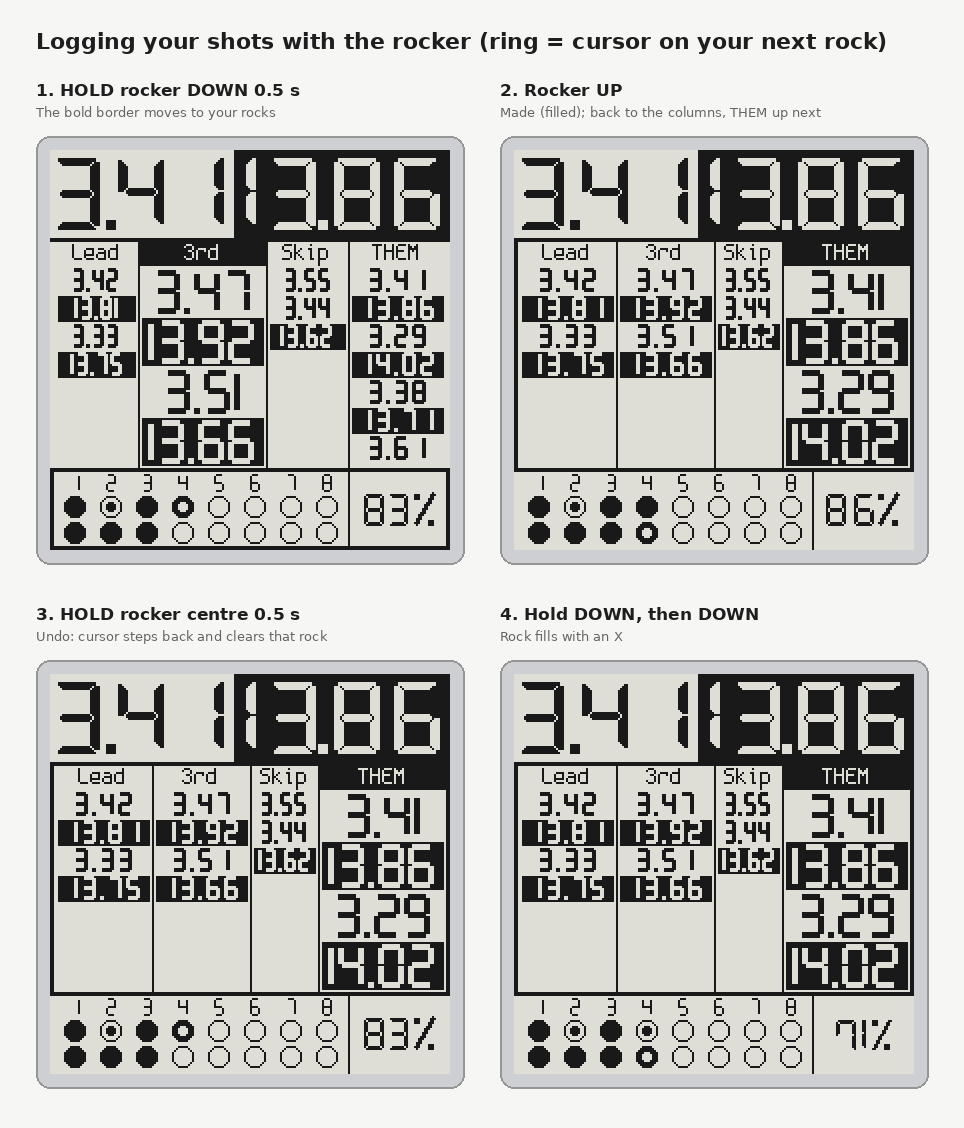
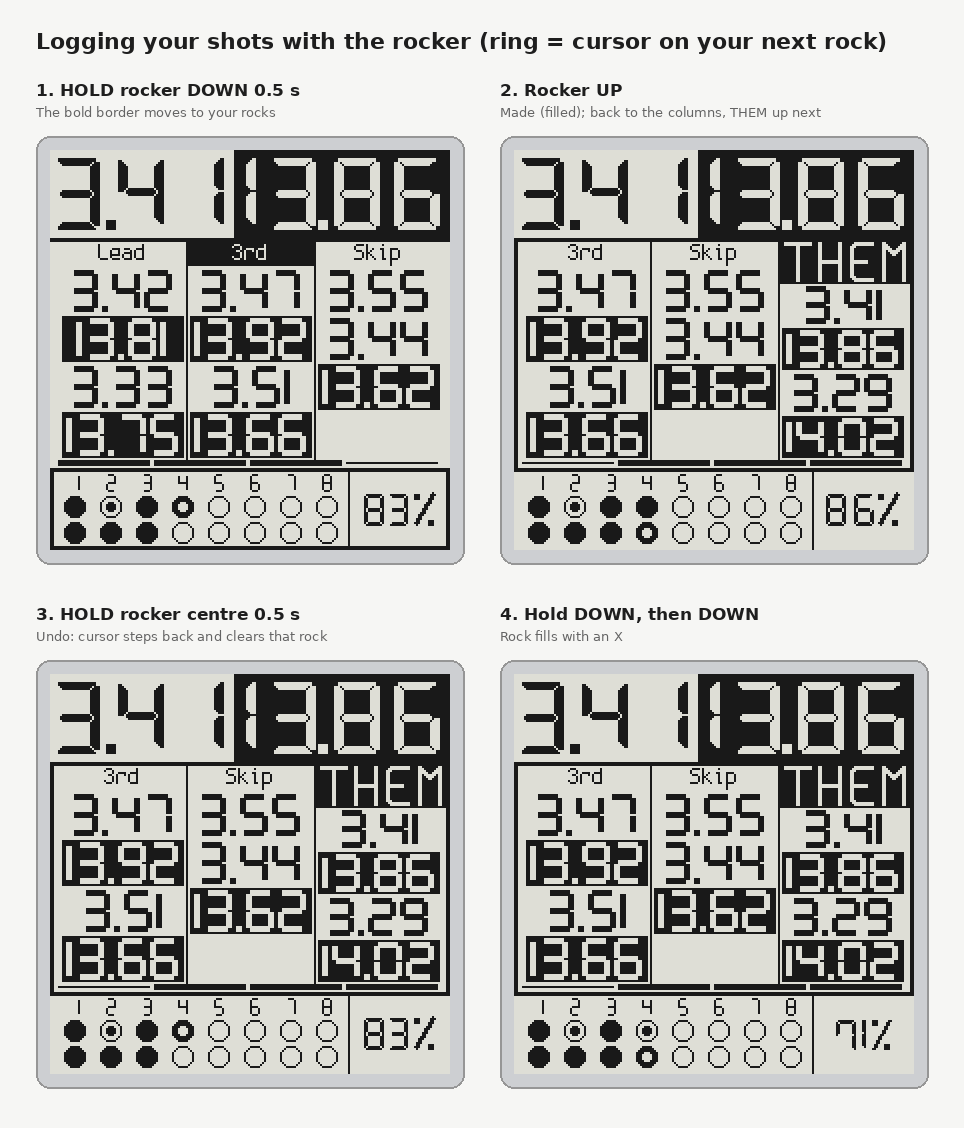
Resolve the review findings on the new navigation and tutorials
- Basic tutorial: a top or side press dismisses it and also clicks, as with
  the position card, so the first stone's start isn't lost; only rocker
  presses are swallowed, and the auto-expiry no longer swallows anything.
- Leaving scroll mode always re-aims the cursor (a position change while
  scrolling restarted the order and left it on a stale column).
- The display keeps the strongest refresh asked for (Partial < FastScreen <
  Full), so a pending ghost-clean can't be downgraded.
- The first ghost-clearing refresh comes after the first stone, as switching
  on now uses fast updates that can leave the off page or menu ghosting.
- Position card: the rocker centre dismisses it only once the double-click
  window has passed, so changing position no longer blinks it off and on.
- History scroll: every column steps back by the same number of splits; a
  column that runs out goes blank instead of holding its oldest four.
- Stale help-page references; game_sim models the fast switch-on.

Claude-Session: https://claude.ai/code/session_01YA9zoncxe9XeMCwR12hQbC

diff --git a/simulator/viewer.html b/simulator/viewer.html
@@ -197,7 +197,7 @@ async function restartIn(mode) {
     if (poweredOn) {
       status.textContent = "switching off…";
       press("side"); await sleep(3400); release("side");
-      for (let i = 0; i < 40 && poweredOn; i++) await sleep(250);  // until the help page is up
+      for (let i = 0; i < 40 && poweredOn; i++) await sleep(250);  // until the off page is up
       await sleep(600);
     }
     status.textContent = `switching on (${mode})…`;

diff --git a/firmware/src/app.cpp b/firmware/src/app.cpp
@@ -209,6 +209,9 @@ constexpr int64_t kPageTipUs = 3 * kSec;
 int64_t singleClickAt = -1;     // the click to check, once the window has passed (-1: none)
 int64_t singleClickPress = -1;  // ... the press it was (a second press since: a double click)
 int64_t pageTipUntil = -1;
+// The position card and a press of the rocker centre: dismissed once the double-click window has
+// passed (a double click changes position and shows the card again: no blink in between).
+int64_t cardDismissAt = -1;
 bool offHint = false;            // "Keep holding to turn off": the side button held, not yet 3 s
 bool moveHint = false;           // "Keep holding to move time": rocker up (or down) held to move a time, till let go
 uint8_t stonesSinceClean = 0;
@@ -344,8 +347,13 @@ void newGame() {
     tipWaiting = mode == GameMode::Basic || rules().positions;
     basicIntroClearing = false;
     tipUntil = -1;
+    cardDismissAt = -1;
     stoneCount = 0;
     basicScroll = 0;
+    // Switching on draws with the fast waveform (no mode switch before the first click), which can
+    // leave the wake screen or menu ghosting: the first ghost-clearing refresh comes after the first
+    // stone, between stones, then every kStonesPerClean as usual.
+    stonesSinceClean = kStonesPerClean - 1;
     Serial.printf("game: new, %s mode\n", modeName(mode));
 }
 
@@ -485,8 +493,9 @@ void syncModel(board::Refresh refresh = board::Refresh::Partial) {
         m.warning = lowBattery;
         m.off = false;
         m.menu = false;
-        // Timing may update the queued frame before the display task takes it.
-        if (requestedRefresh != board::Refresh::Partial) m.refresh = requestedRefresh;
+        // Timing may update the queued frame before the display task takes it: keep the strongest
+        // refresh asked for (Partial < FastScreen < Full), so a pending ghost-clean isn't lost.
+        if (requestedRefresh > m.refresh) m.refresh = requestedRefresh;
         const Tip switchOn = mode == GameMode::Basic ? Tip::BasicIntro : Tip::SwitchOn;
         m.tip = offHint ? Tip::PowerOff : undoHint ? Tip::Undo : moveHint ? Tip::Move :
                 pageTipUntil >= 0 ? Tip::Page : tipWaiting || tipUntil >= 0 ? switchOn : Tip::None;
@@ -793,7 +802,7 @@ GameMode chooseMode() {
             m.tutorialMode = tutorialMode;
             m.tutorialPage = tutorialPage;
             m.off = false;
-            if (full) m.refresh = board::Refresh::FastScreen;
+            if (full && m.refresh < board::Refresh::FastScreen) m.refresh = board::Refresh::FastScreen;
         });
     };
     show(true);
@@ -1026,6 +1035,7 @@ void onRockerPress(ButtonState& s, int64_t t) {
             restartOrder();
             Serial.printf("position: you are %s\n", kPositionNames[myPosition]);
             tipWaiting = true;  // show the new position once the card is on screen
+            cardDismissAt = -1;  // (the first click's dismissal is off: the card stays up)
             tipUntil = -1;
         }
         syncModel();  // shows at once, even while a stone is timed
@@ -1146,10 +1156,11 @@ void releaseAction(uint8_t b) {
     else scrollBasic(b == board::kDown ? 1 : -1);  // basic: down = older stones, up = newer
 }
 
-void dismissBasicIntro() {
+// byPress: a rocker press dismissed it, so the rocker's presses are ignored until it's off the screen.
+void dismissBasicIntro(bool byPress) {
     tipWaiting = false;
     tipUntil = -1;
-    basicIntroClearing = true;
+    basicIntroClearing = byPress;
     syncModel();
 }
 
@@ -1167,18 +1178,25 @@ void onPress(uint8_t b, int64_t t) {
     if (b == board::kUp) moveSteps = 0;
     activity(t);
     if (mode == GameMode::Basic && (tipWaiting || tipUntil >= 0 || basicIntroClearing)) {
-        // The press only dismisses the tutorial: no click, hold or release action. Except that
-        // holding the side button still switches off: its hold is left to run, with no click of
-        // this press for the power-off hold to take back.
-        if (b == board::kSide) sideClick = Outcome();
-        else s.holdFired = true;
-        if (!basicIntroClearing) dismissBasicIntro();
-        return;
+        // Any press dismisses the tutorial. A timing press also clicks, as with the position card:
+        // the first stone's start isn't lost. A rocker press does nothing else (no hold or release
+        // action), nor do its presses while the tutorial is still clearing.
+        const bool timingPress = isTimingButton(b);
+        if (tipWaiting || tipUntil >= 0) dismissBasicIntro(!timingPress);
+        if (!timingPress) {
+            s.holdFired = true;
+            return;
+        }
     }
-    const bool dismissPosition = rules().positions && (tipWaiting || tipUntil >= 0);
+    // The position card: any press dismisses it and still does its usual job; the rocker centre's
+    // only once the double-click window has passed (cardDismissAt), as a double click shows it again.
+    const bool cardUp = rules().positions && (tipWaiting || tipUntil >= 0);
+    const bool dismissPosition = cardUp && b != board::kPress;
+    if (cardUp && b == board::kPress) cardDismissAt = t + kDoublePressUs;
     if (dismissPosition) {
         tipWaiting = false;
         tipUntil = -1;
+        cardDismissAt = -1;
     }
     // Rocker up/down act on release or hold. Position-card dismissal also happens on press.
     switch (b) {
@@ -1267,7 +1285,7 @@ void pollButtons(int64_t now) {
                 if (b == board::kUp) {
                     focusTo(Focus::Players);
                     rocksFocusAt = -1;
-                    if (!timing.active() && followAt >= 0) {
+                    if (!timing.active()) {  // re-aim: the order may have moved on, or restarted (a new position)
                         cursorToNext(now);
                         planFollow(now);
                     }
@@ -1475,10 +1493,18 @@ void loop() {
         tipUntil = now + (mode == GameMode::Basic ? kBasicIntroUs : kTipUs);
     }
     if (tipUntil >= 0 && now >= tipUntil) {
-        if (mode == GameMode::Basic) dismissBasicIntro();
+        if (mode == GameMode::Basic) dismissBasicIntro(false);
         else {
             tipUntil = -1;
             if (!timing.active()) syncModel();
+        }
+    }
+    if (cardDismissAt >= 0 && now >= cardDismissAt) {  // a single click of the centre: the card goes
+        cardDismissAt = -1;
+        if (tipWaiting || tipUntil >= 0) {
+            tipWaiting = false;
+            tipUntil = -1;
+            syncModel();
         }
     }
     if (h2hSwitchAt >= 0 && now >= h2hSwitchAt) {  // no B2H in time: it's an H2H under way
@@ -1548,6 +1574,7 @@ void loop() {
         if (h2hSwitchAt >= 0 && h2hSwitchAt < wake) wake = h2hSwitchAt;
         if (singleClickAt >= 0 && singleClickAt < wake) wake = singleClickAt;
         if (pageTipUntil >= 0 && pageTipUntil < wake) wake = pageTipUntil;
+        if (cardDismissAt >= 0 && cardDismissAt < wake) wake = cardDismissAt;
         if (nextAuditAt < wake) wake = nextAuditAt;
         if (timing.active() && timing.deadline() + 1000 < wake) wake = timing.deadline() + 1000;
         const int64_t before = esp_timer_get_time();

diff --git a/tools/game_sim.py b/tools/game_sim.py
@@ -12,7 +12,9 @@ Rules modelled (docs/SPEC.md sections 4, 7, 10), with sleep-while-timing on (the
   timed) and keeps it awake 2 s.
 - Every 10 minutes a clock-audit sample keeps it awake up to ~1 s (0.5 s on average).
 - The chip runs at 80 MHz.
-- Switching on is a full refresh. Switching off (help page) is one more, after the game.
+- Switching on draws the menu and the mode with fast whole-screen updates (as partials);
+  the first ghost-clearing full refresh follows the first stone. Switching off (the off page)
+  is one more full refresh, after the game.
 """
 
 GAME_S = 2 * 3600
@@ -40,10 +42,10 @@ BATTERY_MAH = 390
 def simulate():
     period = GAME_S / (ENDS * STONES_PER_END)
     awake = []                 # (start, end) intervals
-    partial, full = 0, 1       # switch-on is a full refresh
-    awake.append((0.0, FULL_S + 1.0))
+    partial, full = 2, 0       # switch-on: the menu and the mode, fast whole-screen updates
+    awake.append((0.0, 2 * PARTIAL_S + 1.0))
     led_s = beeps = wakes = 0
-    stones_since_clean = 0
+    stones_since_clean = STONES_PER_CLEAN - 1  # the first ghost-clean follows the first stone
     for i in range(ENDS * STONES_PER_END):
         t0 = i * period
         # timing: start, B2H, H2H; awake until the H2H update has drawn

diff --git a/firmware/lib/stoprock_ui/src/screens.cpp b/firmware/lib/stoprock_ui/src/screens.cpp
@@ -462,8 +462,9 @@ static void drawTimingHistory(Canvas& c, const Stone* stones, uint8_t count, uin
         const int height = pitch - 3 < maxHeight ? pitch - 3 : maxHeight;
         const SegFont digits{height, 14, 3, 2, 3, true, true};
         const SegFont longDigits{height, 11, 3, 2, 3, true, true};
-        const int limit = scroll > 0 ? columnScrollLimit(stones, count, player) : 0;
-        int skip = scroll < limit ? scroll : limit;
+        // Every column skips the same number of splits, so the rows stay a like distance back in
+        // each; a column with fewer splits runs out (blank rows) rather than holding its oldest.
+        int skip = scroll;
         int row = 0;
         for (int i = 0; i < count && row < kHistorySplits; ++i) {
             if (stones[i].player != player) continue;

diff --git a/tools/mockups/screen.py b/tools/mockups/screen.py
@@ -584,7 +584,7 @@ def timing_history(d, f, stones, players, active, end, first_column=0, scroll=0,
         height = min(pitch - 3, 23 if theirs else 24)
         digits = SegFont(h=height, w=14, t=3, gap=2, dot=3, prop=True, solid_one=True)
         long_digits = SegFont(h=height, w=11, t=3, gap=2, dot=3, prop=True, solid_one=True)
-        skip = min(scroll, max(0, len(splits) - 4))
+        skip = scroll  # every column the same distance back; one with fewer splits runs out (blank rows)
         for row, (value, half) in enumerate(splits[skip:skip + 4]):
             y = lines_top + row * pitch
             if half:

diff --git a/firmware/lib/stoprock_core/src/databank.h b/firmware/lib/stoprock_core/src/databank.h
@@ -111,7 +111,7 @@ public:
     uint32_t count() const { return next_ - first_; }
     bool load(uint32_t id, GameRecord& out);
 
-    // The most recent stored game with something in it (for the help page). False if none.
+    // The most recent stored game with something in it. False if none.
     bool lastGame(GameRecord& out);
 
     // Sync: the app reads games after syncedId(), then acknowledges the last one it kept.

diff --git a/docs/SPEC.md b/docs/SPEC.md
@@ -46,7 +46,7 @@ Graphics library: **M5GFX / M5Unified** (has a driver for this screen, `Panel_GD
 | Rocker press, held 1 s | **Undo** the newest entry, a time or a shot, whichever came last (like backspace), in every mode; a stone being timed is cancelled first (with its B2H, if it has one). The throw order steps back with it. From 0.2 s into the hold a box reads "Keep holding / to undo"; it goes with the undo, or when you let go. Keep holding to undo another entry every 1 s; stops after one error buzz when nothing is left. |
 | Rocker press, short | Two presses within 0.4 s switch Coach pages or change your own position in League and Competition (lead → 2nd → 3rd → skip → lead, remembered). A single centre tap in Coach shows the page hint. |
 
-In competition mode, short rocker presses move the player cursor on release: up goes left and down goes right, wrapping round. **Hold up** to move the newest time left, as in league. **Hold down** for 0.7 s to enter scroll mode. In scroll mode, tap down for older times or up for newer times, one split row at a time. The latest result stays visible above the history. Hold up for 0.7 s or press either timing button to return to the latest rows. A timing press also records its usual stopwatch click. Holding the rocker centre undoes the newest entry.
+In competition mode, short rocker presses move the player cursor on release: up goes left and down goes right, wrapping round. **Hold up** to move the newest time left, as in league. **Hold down** for 0.7 s to enter scroll mode. In scroll mode, tap down for older times or up for newer times, one split row at a time. Every column steps back by the same number of splits; a column with fewer splits runs out (its rows go blank) rather than holding its oldest. Leaving scroll mode puts the cursor back on whoever throws next. The latest result stays visible above the history. Hold up for 0.7 s or press either timing button to return to the latest rows. A timing press also records its usual stopwatch click. Holding the rocker centre undoes the newest entry.
 
 In league mode the rocker works on one half of the screen at a time, the **focus**, shown by a bold border: the **columns** of times (up moves left, down moves right, wrapping round; the default at switch-on) or your **rocks** (up/down = made/missed). **Hold down twice, releasing between holds**, to go through history to your rocks. Logging a rock, holding up, or using a timing button returns to the columns: while a stone is timed, the rocker works on the times. When the stone is done, the focus goes back to your rocks if the throw order says you've thrown since your last logged shot (exactly one shot owed: if you aren't logging shots, it leaves the focus alone). When your own throw is due, the focus moves to your rocks by itself (section 8). On the columns, **holding rocker up moves the newest time**: after 0.7 s it jumps one column left (the way a press of rocker up moves the cursor), and again every 0.7 s (wrapping from the first column to THEM), and it stays in the column it's in when you let go. So does the cursor (the highlighted header), until the next stone starts; then it goes to whoever the throw order says is throwing. From 0.2 s into such a hold (when there's a time to move), a box reads "Moving time", over the bottom of the screen (your rocks; competition: the badge strip; coach: the rocks on either page), clear of the columns, until you let go. So that a hold can be told from a press, league acts on a short up/down press when it's let go.
 
@@ -146,7 +146,7 @@ A stone gives at most one **B2H** (back line, or tee line, to hog line) followed
 
 The cursor stays where you put it with the rocker until a stone is filed. Your position is changed with a double press of the rocker centre (that starts the order afresh).
 
-There are no rotating tips. Competition and League open with a position card over the history. It names your position and points to the rocker. Double-click the rocker centre to change position and show the card again. The card clears on any button press or after five seconds on screen. The button still performs its usual action. Your position is kept between games and through power-off. Coach has no switch-on tip. The hold hints ("Keep holding / to undo", "Keep holding / to turn off", "Moving time", and coach's "Double click / to change page") are bold Spleen 12×24.
+There are no rotating tips. Competition and League open with a position card over the history. It names your position and points to the rocker. Double-click the rocker centre to change position and show the card again. The card clears on any button press or after five seconds on screen; for the rocker centre, once the double-click window (0.4 s) has passed, so a double click changes position without the card blinking off and on. The button still performs its usual action. Your position is kept between games and through power-off. Coach has no switch-on tip. The hold hints ("Keep holding / to undo", "Keep holding / to turn off", "Moving time", and coach's "Double click / to change page") are bold Spleen 12×24.
 
 ## 8a. Competition and coach screens
 
@@ -156,7 +156,7 @@ There are no rotating tips. Competition and League open with a position card ove
 
 **Coach, page 2 (rock priority).** The newest times only (DSEG7 24 px, H2H white on black, no labels) in y 0–33, position names, all 8 ends × 4 positions × 2 rocks, and along the bottom each position's percentage with a small pie. On page 2 the rocker always works on the rocks (up/down made/missed, a bold border round them), as the page shows no columns; hold rocker up to go back to page 1's times. A double click opens page 2 on the rocks and page 1 on the times. A centre tap shows "Double click / to change page" for 3 s, or until the next press.
 
-**Basic.** Competition's times with no players, for reading at a distance: four rows of 43 px, a stone each, newest first, in DSEG7 37 px (an H2H of 20.00 s at 33 px), B2H black on white left of x 92 and H2H white on black right of it, 1 px lines between rows. The top row is the stone being timed, with the stopwatch where its time will appear, as in the other modes. The badge strip (bottom 26 px) reads `BASIC` / `STOPWATCH ONLY`. There is no cursor or throw order. A tutorial points to the top and side timing buttons at entry. It closes after 20 seconds on screen or on any button press. A press that closes it only dismisses the tutorial. The rocker **scrolls**: down a row to older stones, up to newer, through the last 32 kept for the screen (a click at the end beeps the error tone); while scrolled, the badge's second line says which stones show, counting from the newest (`5-8 of 14`), so an old time can't pass for the newest. Starting the stopwatch scrolls back to the top. Holding the middle 1 s undoes, as everywhere. The databank records the stones with no player (`null`); `tools/analyze_games.py` skips basic games.
+**Basic.** Competition's times with no players, for reading at a distance: four rows of 43 px, a stone each, newest first, in DSEG7 37 px (an H2H of 20.00 s at 33 px), B2H black on white left of x 92 and H2H white on black right of it, 1 px lines between rows. The top row is the stone being timed, with the stopwatch where its time will appear, as in the other modes. The badge strip (bottom 26 px) reads `BASIC` / `STOPWATCH ONLY`. There is no cursor or throw order. A tutorial points to the top and side timing buttons at entry. It closes after 20 seconds on screen or on any button press. A rocker press that closes it does nothing else; a press of the top or side button closes it and also clicks, as with the position card, so the first stone's start isn't lost. The rocker **scrolls**: down a row to older stones, up to newer, through the last 32 kept for the screen (a click at the end beeps the error tone); while scrolled, the badge's second line says which stones show, counting from the newest (`5-8 of 14`), so an old time can't pass for the newest. Starting the stopwatch scrolls back to the top. Holding the middle 1 s undoes, as everywhere. The databank records the stones with no player (`null`); `tools/analyze_games.py` skips basic games.
 
 ## 9. Off page
 
@@ -173,7 +173,7 @@ The physical update takes about 0.26 s whatever the area changed, so the goal is
 | First result of a stone (B2H, or H2H with no B2H) | Beep. One update: the new value in the large row; after a B2H the stopwatch moves to the Hog2Hog box. |
 | H2H after a B2H | Beep. Only the large H2H cell (replacing the stopwatch, which moved there with the B2H). |
 | Rocker | Beep. That rock, the cursor and the percentage. |
-| Ghost clearing (2 s full refresh) | After **every 4th timed stone** (a setting, to tune on the real panel): **5 s after its H2H click**, or **20 s after its B2H click** if it has no H2H. A timer wakes the chip from light sleep for it. Abandoned starts don't count. If the next stone has already started, it waits for that stone to end. |
+| Ghost clearing (2 s full refresh) | After the **first timed stone** of a game (switching on uses fast updates, which can leave the off page or menu ghosting), then after **every 4th** (a setting, to tune on the real panel): **5 s after its H2H click**, or **20 s after its B2H click** if it has no H2H. A timer wakes the chip from light sleep for it. Abandoned starts don't count. If the next stone has already started, it waits for that stone to end. |
 
 Rules:
 1. During a stone (first click until done or abandoned), only timing updates run. Rocker entries are logged and beep immediately; their screen update waits.

diff --git a/docs/PRO_MODE.md b/docs/PRO_MODE.md
@@ -39,6 +39,6 @@ skip), with the same bold-ring cursor and hold-to-undo as player mode.
 1. Page 1 shows 6 earlier stones; two pairs to a row would show about 12, at some cost to readability.
 2. At the smaller rock size the ✗ is a 4 px cross; if it doesn't read on the real screen, a filled dot for
    missed would contrast better.
-3. Coach mode shows no low-battery warning during the game (only on the help page).
+3. Coach mode shows no low-battery warning during the game (only on the off page, as games or charge left).
 
 The mockup is drawn by [`tools/mockups/coach_mode.py`](../tools/mockups/coach_mode.py).
